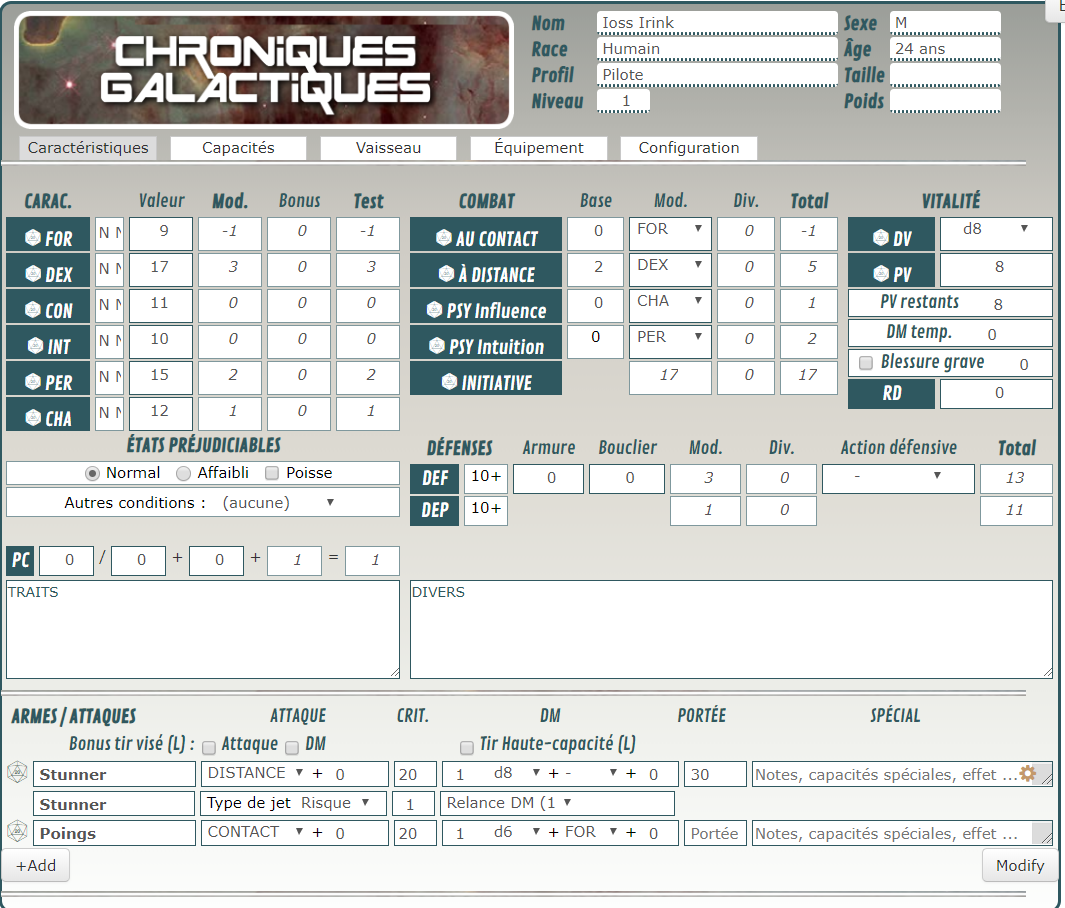
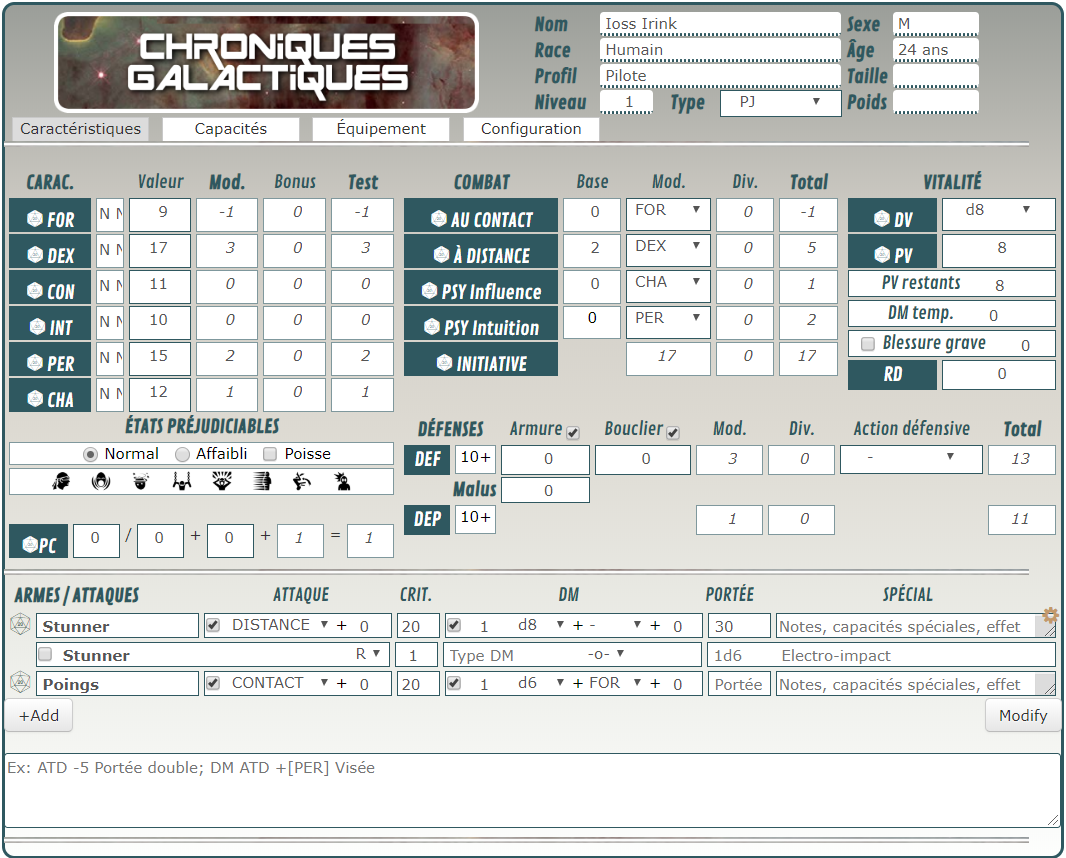
Notes de mise à jour version 3.7, et mise à jour de l'image de la fiche.

diff --git a/ReadMe.md b/ReadMe.md
@@ -9,9 +9,16 @@ Cette feuilles de personnage inclue quelques jets et r&egrave;gles optionnelles.
 Le jeu complet est paru dans le magazine [Casus Belli](http://www.black-book-editions.fr/catalogue.php?id=207) #17,18 et 19.
 
 # Version courante
-3.6 [Screenshot](cog_v3.png)
+3.7 [Screenshot](cog_v3.png)
 
 # Notes de version
+## V3.7 (2019-09-26)
+Modification de tous les roll-buttons :
+- name="roll\_<nomdujet>"
+- ajout/maj des title=""
+
+Permet de lancer tous les jets de dés de la fiche via %{<nomdujet>} dans le chat
+
 ## V3.6 (2019-04-17)
 ### Fiche de PJ
 
